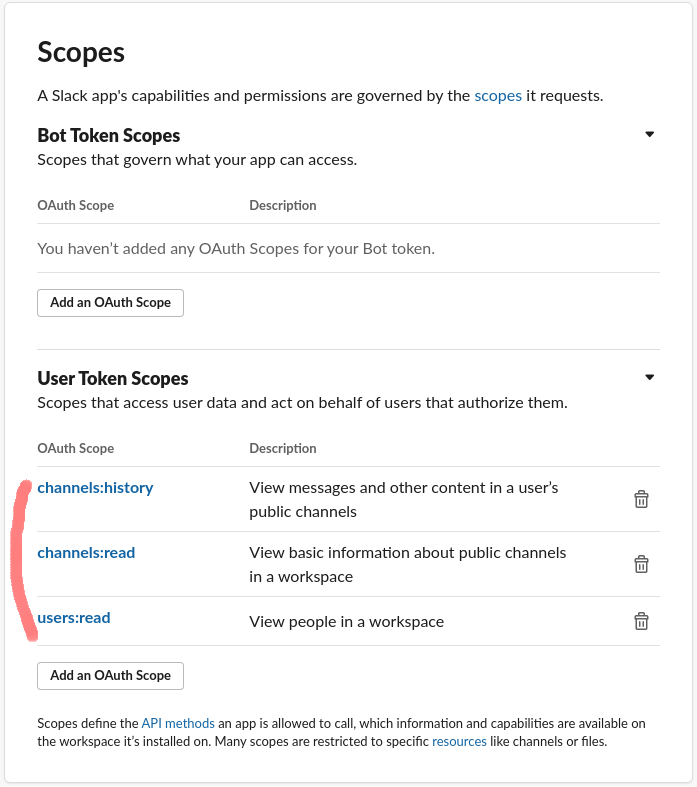
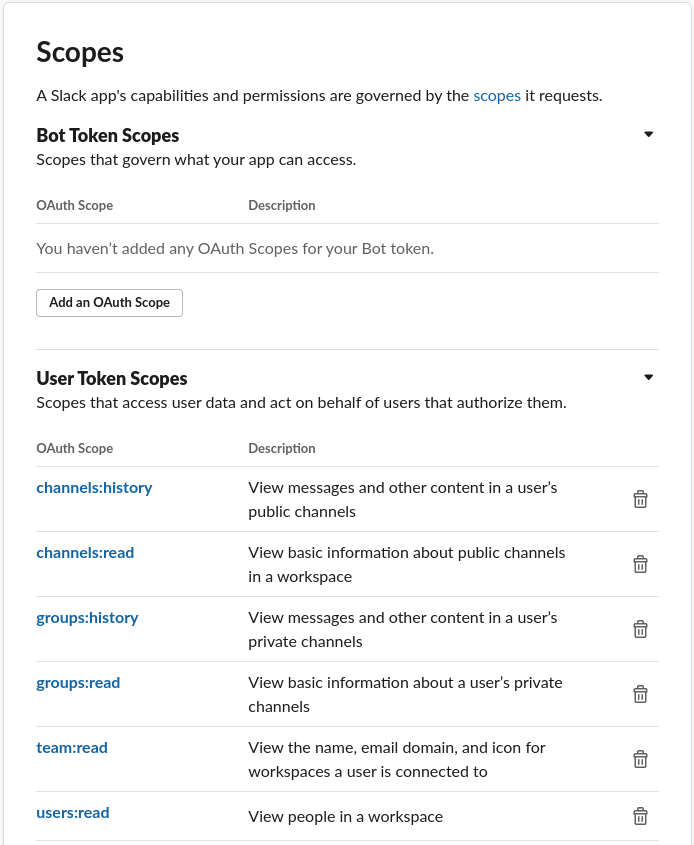
✏ writing README

diff --git a/README.md b/README.md
@@ -92,8 +92,11 @@ If you are the workspace owner, your options will automatically appear.
 
 Add OAuth Scopes, slack-stock needs below scopes.
 
-- channels:read
 - channels:history
+- channels:read
+- groups:history
+- groups:read
+- team:read
 - users:read
 
 <center>
@@ -148,39 +151,95 @@ video
 
 <!-- commands -->
 
-- [`slst add [FILE]`](#slst-add-file)
-- [`slst contact`](#slst-contact)
+- [`slst menu`](#slst-menu)
+- [`slst teams [ACTION]`](#slst-teams-action)
+- [`slst data [ACTION]`](#slst-data-action)
+- [`slst messages [ACTION]`](#slst-messages-action)
 - [`slst help [COMMAND]`](#slst-help-command)
-- [`slst new-team [FILE]`](#slst-new-team-file)
-- [`slst stock [DATA]`](#slst-stock-data)
-- [`slst view [DATA] [OUTPUT]`](#slst-view-data-output)
 
-## `slst add [FILE]`
+## `slst menu`
 
-describe the command here
+Select menu
 
 ```
 USAGE
-  $ slst add [FILE]
+  $ slst menu
 
 OPTIONS
-  -f, --force
-  -h, --help       show CLI help
-  -n, --name=name  name to print
+  -h, --help  show CLI help
+
+ALIASES
+  $ slst
 ```
 
-_See code: [src/commands/add.ts](https://github.com/cli/slack-stock/blob/v0.0.0/src/commands/add.ts)_
+_See code: [src/commands/menu.ts](https://github.com/cli/slack-stock/blob/v0.0.0/src/commands/menu.ts)_
 
-## `slst contact`
+## `slst teams [ACTION]`
 
-Contact support
+You can add & view team
 
 ```
 USAGE
-  $ slst contact
+  $ slst teams [ACTION]
+
+ARGUMENTS
+  ACTION  (add|view) OAuth token installed your workspace
+
+OPTIONS
+  -h, --help                         show CLI help
+  -t, --output=console|csv|tsv|xlsx  Select output format
+  -t, --token=token                  OAuth token installed your workspace
+
+ALIASES
+  $ slst t
+  $ slst team
 ```
 
-_See code: [src/commands/contact.ts](https://github.com/cli/slack-stock/blob/v0.0.0/src/commands/contact.ts)_
+_See code: [src/commands/teams.ts](https://github.com/cli/slack-stock/blob/v0.0.0/src/commands/teams.ts)_
+
+## `slst data [ACTION]`
+
+You can fetch & view data(user & channel)
+
+```
+USAGE
+  $ slst data [ACTION]
+
+OPTIONS
+  -h, --help                         show CLI help
+  -o, --output=console|csv|tsv|xlsx  Select output format
+  -t, --team=team                    Enter team name
+
+ALIASES
+  $ slst d
+```
+
+_See code: [src/commands/data.ts](https://github.com/cli/slack-stock/blob/v0.0.0/src/commands/data.ts)_
+
+## `slst messages [ACTION]`
+
+You can stock & view message
+
+```
+USAGE
+  $ slst messages [ACTION]
+
+OPTIONS
+  -c, --channel=channel              Enter channel name
+  -d, --day                          If this flag ON, period is from one day ago to now.
+  -h, --help                         show CLI help
+  -k, --keyword=keyword              Enter timer keyword. ex) --keyword="start" "stop"
+  -m, --month                        If this flag ON, period is from one month ago to now.
+  -o, --output=console|csv|tsv|xlsx  Select output format
+  -p, --period=period                Enter period. ex) --period="YYYY-MM-DD" "YYYY-MM-DD"
+  -w, --week                         If this flag ON, period is from one week ago to now.
+
+ALIASES
+  $ slst m
+  $ slst message
+```
+
+_See code: [src/commands/messages.ts](https://github.com/cli/slack-stock/blob/v0.0.0/src/commands/messages.ts)_
 
 ## `slst help [COMMAND]`
 
@@ -198,64 +257,6 @@ OPTIONS
 ```
 
 _See code: [@oclif/plugin-help](https://github.com/oclif/plugin-help/blob/v3.2.3/src/commands/help.ts)_
-
-## `slst new-team [FILE]`
-
-describe the command here
-
-```
-USAGE
-  $ slst new-team [FILE]
-
-OPTIONS
-  -f, --force
-  -h, --help       show CLI help
-  -n, --name=name  name to print
-```
-
-_See code: [src/commands/new-team.ts](https://github.com/cli/slack-stock/blob/v0.0.0/src/commands/new-team.ts)_
-
-## `slst stock [DATA]`
-
-Stock data
-
-```
-USAGE
-  $ slst stock [DATA]
-
-ARGUMENTS
-  DATA  (message|user|channel) select fetch data
-
-OPTIONS
-  -c, --channel=channel  if fetch message data, set channel name or channel id
-  -f, --from=from        if fetch message data, set from date, format=yyyy-MM-dd
-  -h, --help             show CLI help
-  -n, --name=name        slack name from config file
-  -t, --to=to            if fetch message data, set to date, format=yyyy-MM-dd
-```
-
-_See code: [src/commands/stock.ts](https://github.com/cli/slack-stock/blob/v0.0.0/src/commands/stock.ts)_
-
-## `slst view [DATA] [OUTPUT]`
-
-View data
-
-```
-USAGE
-  $ slst view [DATA] [OUTPUT]
-
-ARGUMENTS
-  DATA    (message|user|channel) select output data
-  OUTPUT  (console|csv|tsv|excel) select output type
-
-OPTIONS
-  -c, --channel=channel  if fetch message data, set channel name or channel id
-  -f, --from=from        if fetch message data, set from date, format=yyyy-MM-dd
-  -h, --help             show CLI help
-  -t, --to=to            if fetch message data, set to date, format=yyyy-MM-dd
-```
-
-_See code: [src/commands/view.ts](https://github.com/cli/slack-stock/blob/v0.0.0/src/commands/view.ts)_
 
 <!-- commandsstop -->
 
